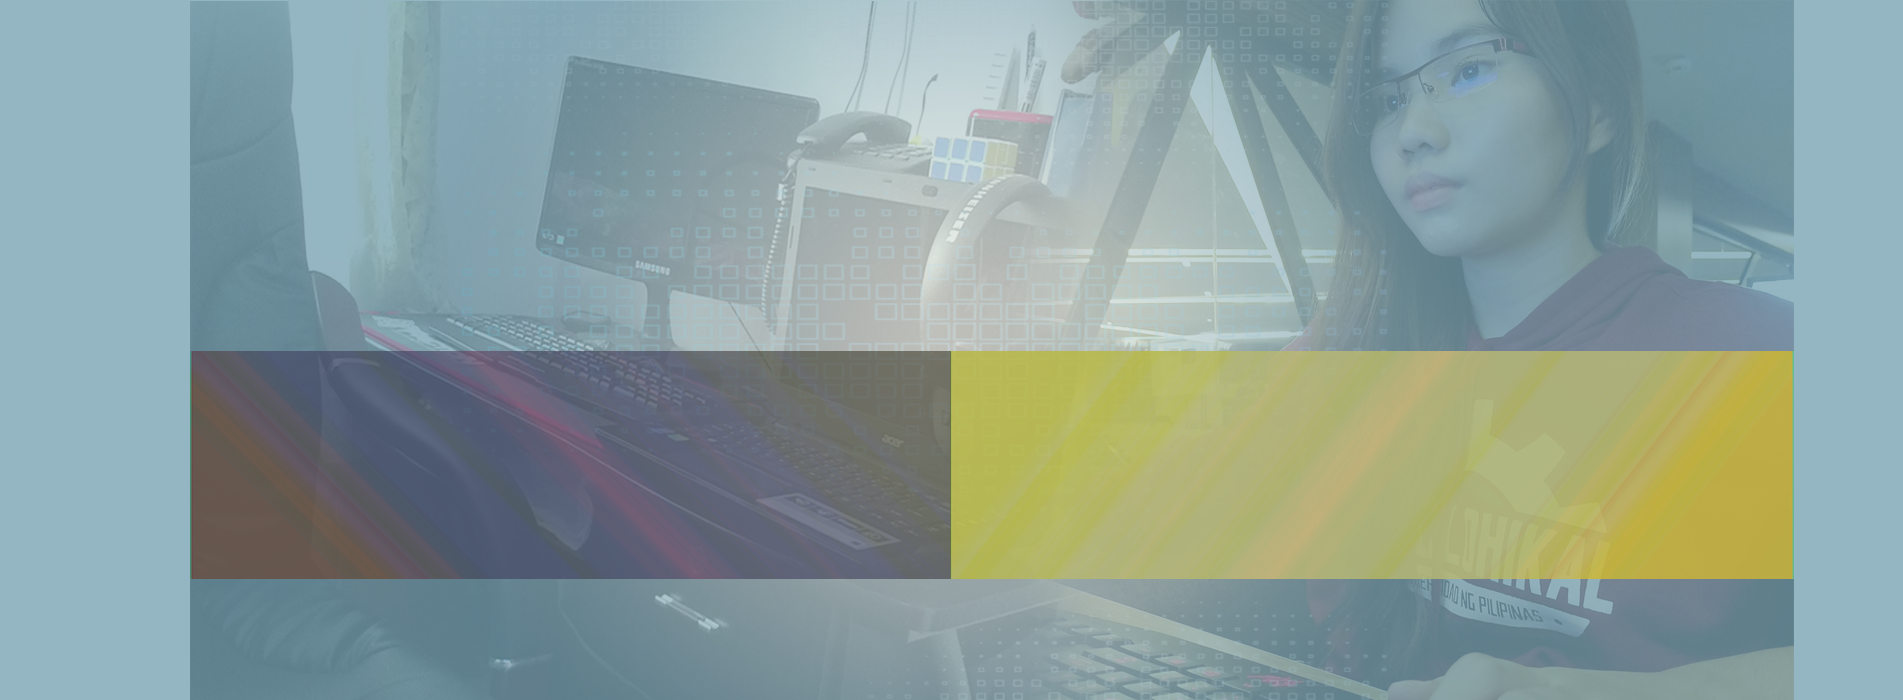
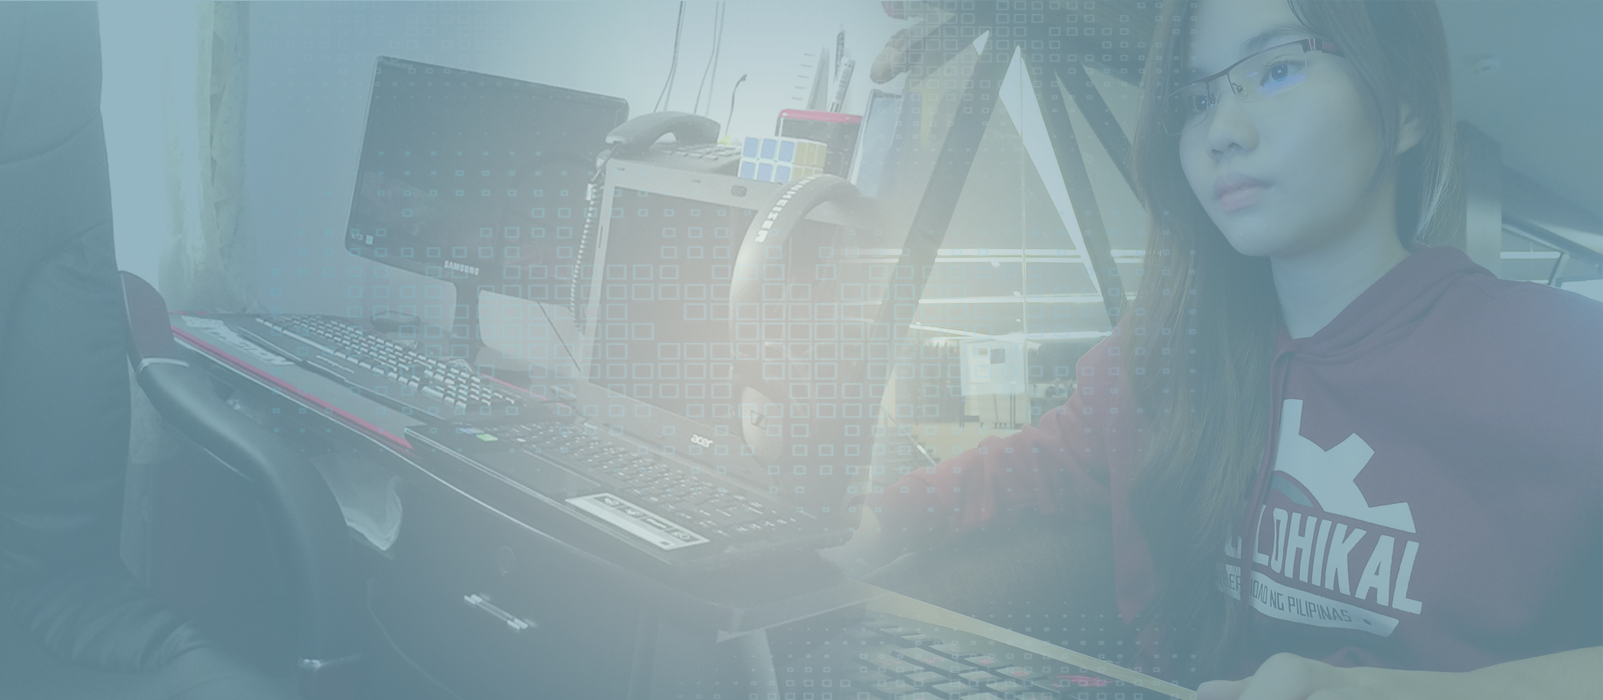
Completed: Responsive to XL

diff --git a/portfolio/index.html b/portfolio/index.html
@@ -1,74 +1,77 @@
 <!DOCTYPE html>
 <html>
     <head lang="en">
-        <!-- CREATE I18N FOR ALL STATIC -->
-        <title>variable here</title>
+        <title>PORTFOLIO</title>
         <meta charset="UTF-8">
         <meta name="viewport" content="width=device-width, initial-scale=1">
         <link rel="stylesheet" href="css/home.css" />
-        <link rel="stylesheet" href="https://maxcdn.bootstrapcdn.com/bootstrap/3.4.1/css/bootstrap.min.css">
-        <script src="https://ajax.googleapis.com/ajax/libs/jquery/3.5.1/jquery.min.js"></script>
-        <script src="https://maxcdn.bootstrapcdn.com/bootstrap/3.4.1/js/bootstrap.min.js"></script>
         
-        <link rel="stylesheet" href="https://cdnjs.cloudflare.com/ajax/libs/animate.css/4.0.0/animate.min.css"/>
-        <script src="https://cdnjs.cloudflare.com/ajax/libs/bootstrap-hover-dropdown/2.2.1/bootstrap-hover-dropdown.min.js"></script>
+        <!-- Bootstrap CSS -->
+        <link rel="stylesheet" href="https://stackpath.bootstrapcdn.com/bootstrap/4.5.2/css/bootstrap.min.css" integrity="sha384-JcKb8q3iqJ61gNV9KGb8thSsNjpSL0n8PARn9HuZOnIxN0hoP+VmmDGMN5t9UJ0Z" crossorigin="anonymous">
+
+        <!-- Bootstrap JS Dependencies -->
+        <script src="https://code.jquery.com/jquery-3.5.1.slim.min.js" integrity="sha384-DfXdz2htPH0lsSSs5nCTpuj/zy4C+OGpamoFVy38MVBnE+IbbVYUew+OrCXaRkfj" crossorigin="anonymous"></script>
+        <script src="https://cdn.jsdelivr.net/npm/popper.js@1.16.1/dist/umd/popper.min.js" integrity="sha384-9/reFTGAW83EW2RDu2S0VKaIzap3H66lZH81PoYlFhbGU+6BZp6G7niu735Sk7lN" crossorigin="anonymous"></script>
+        <script src="https://stackpath.bootstrapcdn.com/bootstrap/4.5.2/js/bootstrap.min.js" integrity="sha384-B4gt1jrGC7Jh4AgTPSdUtOBvfO8shuf57BaghqFfPlYxofvL8/KUEfYiJOMMV+rV" crossorigin="anonymous"></script>
     </head>
     <body>
-        <div id="custContent">
-            <div class="collapse navbar-collapse custPadding" id="navbarSupportedContent">
-                <ul class="navbar-nav mr-auto col-lg-12" id="custMenu">
-                    <li class="nav-item col-lg-2">
-                        <span id="custLogo">WCxCode</span>
-                    </li>
-                    <li class="nav-item active col-lg-2">
-                        <a class="nav-link custItems" href="#">Who is SHE?</a>
-                    </li>
-                    <li class="nav-item dropdown col-lg-2">
-                        <a class="nav-link dropdown-toggle custItems" href="views/designs.html" id="navbarDropdown" role="button" data-toggle="dropdown" data-hover="dropdown" aria-haspopup="true" aria-expanded="false">
-                            Collected Designs
-                        </a>
-                    </li>
-                    <li class="nav-item col-lg-2">
-                        <a class="nav-link custItems" href="views/experiences.html">Unforgettable Experiences</a>
-                        <!-- companies -->
-                    </li>
-                    <li class="nav-item col-lg-2">
-                        <a class="nav-link custItems" href="views/experiences.html">Interests</a>
-                        <!-- accenture picture with boss gaa jc and joyce, japan -->
-                    </li>
-                    <li class="nav-item col-lg-2">
-                        <a class="nav-link custItems" href="views/technologies.html">Mastered Technologies</a>
-                        <!-- by year -->
-                    </li>
-                </ul>
+        <div class="container col-lg-12" id="custContent">
+            <nav class="navbar navbar-expand-lg navbar-dark" id="custMenu">
+                <a class="navbar-brand text-white" href="#" id="custLogo">WCxCode</a>
+                <button class="navbar-toggler" type="button" data-toggle="collapse" data-target="#navbarSupportedContent" aria-controls="navbarSupportedContent" aria-expanded="false" aria-label="Toggle navigation">
+                    <span class="navbar-toggler-icon"></span>
+                </button>
+                <div class="collapse navbar-collapse" id="navbarSupportedContent">
+                    <ul class="navbar-nav mr-auto col-lg-12">
+                        <li class="nav-item active col-lg-2">
+                            <a class="nav-link" href="#">Who is SHE?</a>
+                        </li>
+                        <li class="nav-item col-lg-2">
+                            <a class="nav-link custItems" href="views/designs.html">
+                                Collected Designs
+                            </a>
+                        </li>
+                        <li class="nav-item col-lg-2">
+                            <a class="nav-link custItems" href="views/experiences.html">Unforgettable Experiences</a>
+                            <!-- companies -->
+                        </li>
+                        <li class="nav-item col-lg-2">
+                            <a class="nav-link custItems" href="views/experiences.html">Interests</a>
+                            <!-- accenture picture with boss gaa jc and joyce, japan -->
+                        </li>
+                        <li class="nav-item col-lg-2">
+                            <a class="nav-link custItems" href="views/technologies.html">Mastered Technologies</a>
+                            <!-- by year -->
+                        </li>
+                    </ul>
+                </div>
+            </nav>
+            
+            <div class="col-xl-12" id="custName">Winzel Cruz</div>
+            <div class="col-xl-12" id="custNamae">ウィンゼルクルーズ</div>
+            
+            <div class="row">
+                <div class="col-xl-6" id="custLeft">
+                    Alias "Winz" a brute force coder. As of August 2020, she is a <span id="custProfession">Senior Fullstack Web Developer</span> at the age of 26. She was a Dean's lister
+                    and graduated with awards in literature, arts and a degree in Computer Science. Silent type but she works professionally.<br /><br />
+                    She is interested on learning Japanese culture, classical music and chess tactics.<br /><br />
+                    Teaching is indeed a new career path she’s currently taking, she believes that her knowledge and skills were meant to be shared. <br />
+                </div>
+                <div class="col-xl-6" id="custRight">
+                    She makes sure that her primary goal in every situtaion is to help people, not to take advantage nor to ignore them. <br /> <br />
+                    Her focus on her goals is so sharp, whether it is a short or long term goal, she will definitely make them happen. Her achievements today proved her perseverance.
+                </div>
             </div>
-            <div id="custBody">
-                <div id="custName">Winzel Cruz</div>
-                <div id="custNamae">ウィンゼルクルーズ</div>
-                <div class="col-lg-6" id="custLeft">
-                    As of August 2020, she is a <span id="custProfession">Senior Fullstack Web Developer</span> at the age of 26. She graduated <br />
-                    with awards in literature, arts and a degree in computer science.  A practical and perfectionist person.<br /> 
-                    Silent type but she works professionally. <br /> <br />
-                    
-                    She is interested on learning Japanese culture, classical music and chess tactics. <br /> <br />
-                    
-                    Teaching is indeed a new path she’s currently taking, she believes that her skills and knowledge<br />
-                    were meant to be shared. <br />
-                </div>
-                <div class="col-lg-6" id="custRight">
-                    She makes sure that her primary goal in every situtaion is to help people, <br />
-                    not to take advantage nor to ignore them. <br /> <br />
-                    
-                    Her focus on her goals is so sharp, whether it is a short or long term goal, <br />
-                    she will definitely make them happen. Her achievements today proved her perseverance.
-                </div>
-                <div class="col-lg-12" id="custFooter">
-                    “You are a child of God. Your playing small does not serve the world. There is nothing enlightened about shrinking so that other people won’t feel insecure around you. We are all meant to shine as children do. <br />
-                    We were born to make manifest the glory of God that is within us. It is not just in some of us; it is in everyone. And as we let our own light shine, we unconciously give other people permission to do the same. <br />
-                    As we liberated from our own fear, out presence automatically liberates others.” <br /> <br />
-                    
-                    - A Return to Love by Marianne Williamson
-                </div>
+
+            <div class="col-xl-12" id="custQuote">
+                “You are a child of God. Your playing small does not serve the world. There is nothing enlightened about shrinking so that other people won’t feel insecure around you. 
+                We are all meant to shine as children do.<br />We were born to make manifest the glory of God that is within us. It is not just in some of us; it is in everyone. 
+                And as we let our own light shine, we unconciously give other people permission to do the same.<br />
+                As we liberated from our own fear, our presence automatically liberates others.” - A Return to Love by Marianne Williamson
+            </div>
+
+            <div class="col-xl-12" id="custFooter">
+                Copyright <span>&#169;</span>2020 | Designed and Programmed by Winzel Cruz 
             </div>
         </div>
     </body>

diff --git a/portfolio/css/home.css b/portfolio/css/home.css
@@ -2,30 +2,40 @@ body, html {
     height: 100%;
     margin: 0;
 }
+
+#custContent{
+    background-image: url("../images/bg.png");
+    background-position: center;
+    background-repeat: no-repeat;
+    /* background-size: cover; */
+    /* height: 100%; */
+    padding: 0;
+
+    width: 100%;
+  height: 100%;
+  /* background-image: url('img_flowers.jpg'); */
+  background-size: 100% 100%;
+  /* border: 1px solid red; */
+}
   
 #custMenu{
     background: #3c495c;
     font-style: normal;
     list-style-type: none;
     opacity: 89%;
-    padding: 2.4rem 10rem 2rem 10rem !important;
     text-align: center !important;
 }
 
-.custPadding{
-    padding: 0 !important;
-}
-
-#custLogo, .custItems:hover, .custItems:focus, #custNamae, #custLeft, #custRight, #custName{
+.custItems:hover, .custItems:focus, #custName, #custNamae, #custLeft, #custRight{
     color:#fff;
 }
 
-#custLogo, #custProfession, #custNamae{
+#custLogo, #custNamae{
     font-weight: bold;
 }
 
-#custLogo, .custItems{
-    font-size: 2rem;
+#custLogo{
+    margin-left: 1.5%;
 }
 
 .custItems{
@@ -48,54 +58,59 @@ body, html {
     }
 }
 
-#custContent{
-    background-image: url("../images/bg.png");
-    background-position: center;
-    background-repeat: no-repeat;
-    background-size: cover;
-    height: 100%;
-}
-
-#custBody{
-    height: 93.%;
-    width: 100%;
-}
-
-#custName, #custNamae, #custFooter{
+#custName, #custNamae, #custQuote, #custFooter{
     text-align: center;
 }
 
 #custName{
     font-family: pristina;
-    font-size: 12rem;
-    padding-top: 10rem;
+    font-size: 8vw;
+    padding-top: 5%;
 }
 
 #custNamae{
     font-family: biz udgothic;
-    font-size: 3rem;
+    font-size: 2vw;
     margin-top:-30px;
-    padding-bottom: 10rem;
+    padding-bottom: 5%;
+}
+
+.row{
+    margin:0 !important;
 }
 
 #custLeft, #custRight{
-    font-size: 1.56rem;
-    height: 30rem;
-    padding: 7.6rem 2rem 7.6rem 20rem;
+    background-position: center;
+    background-repeat: no-repeat;
+    background-size: cover;
+    font-size: 1em;
+    opacity: 0.8;
+    padding: 3%;
+}
+
+#custLeft{
+    background-image: url("../images/contentBg1.png");
 }
 
 #custRight{
-    padding: 7.6rem 20rem 7.6rem 6rem;
+    background-image: url("../images/contentBg2.png");
 }
 
 #custProfession{
     color: #cbb4ff;
 }
 
-#custFooter{
-    bottom: 4.5rem;
+#custQuote{
     color: #2f3448;
-    font-size: 1.1rem;
+    font-size: 0.9em;
     font-style: italic;
+    padding-top: 2%;
+}
+
+#custFooter{
+    background: #3c495c;
+    bottom:0;
+    color: #f3f3f3;
+    font-size: 0.6em;
     position: absolute;
 }
